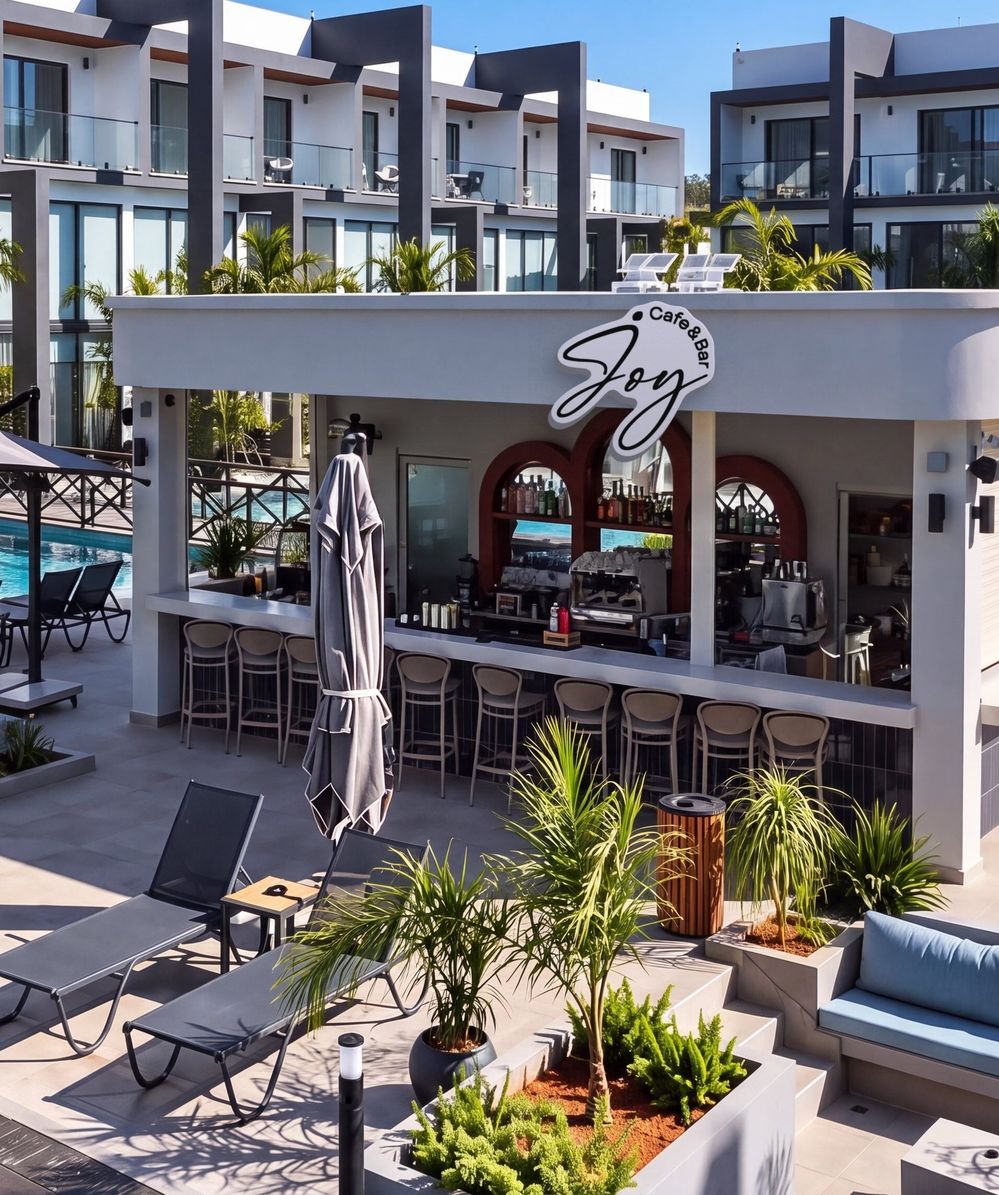
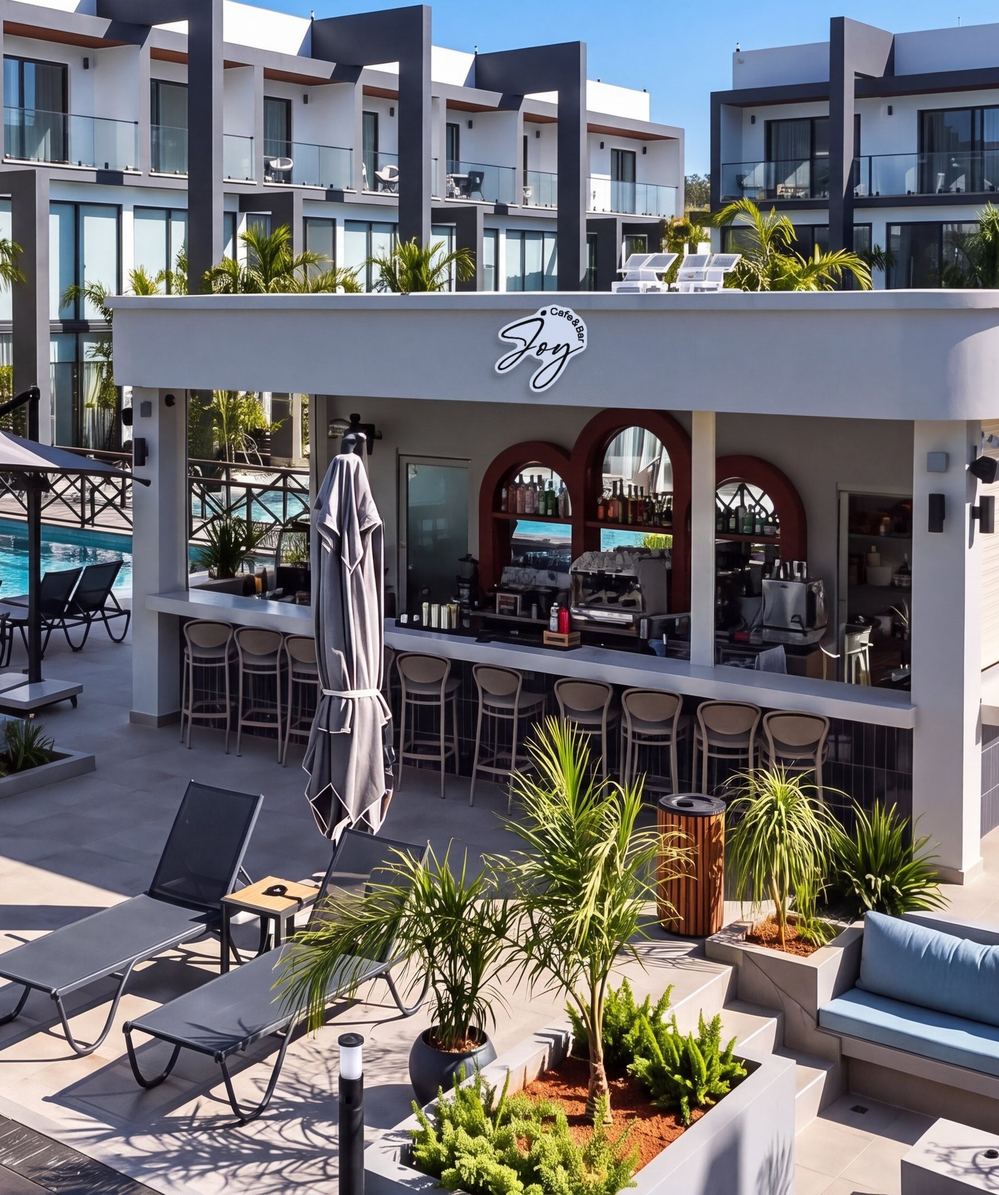
La Joya hero: Joy tabelası ön saçağın ortasında ve daha küçük; yan saçağa ikinci tabela (perspektifle)

Changed region(s): [[0.5, 0.2464, 0.7188, 0.4004]]

diff --git a/app/components/azure/home/HomeHero.tsx b/app/components/azure/home/HomeHero.tsx
@@ -13,7 +13,7 @@ const DIK = "(max-aspect-ratio: 2/3)";
 const IMG: Partial<Record<ProjectSlug, string>> = {
   neocity: "/neocity/hero.jpg",
   "lagoon-verde": "/azure/lv-5.jpg",
-  "la-joya": "/azure/lj-joy-tabela.jpg", // Joy Cafe & Bar havuz pavyonu; ön saçakta gerçek tabelanın biçiminde (logo hattını izleyen kalın kontur kesim plaka) Joy tabelası
+  "la-joya": "/azure/lj-joy-tabela.jpg", // Joy Cafe & Bar havuz pavyonu; ön saçağın ortasında ve yan saçakta, gerçek tabelanın biçiminde (logo hattını izleyen kalın kontur kesim plaka) Joy tabelaları
   perla: "/azure/p1-7.jpg",
   "perla-ii": "/perla-ii/3.jpg",
 };
